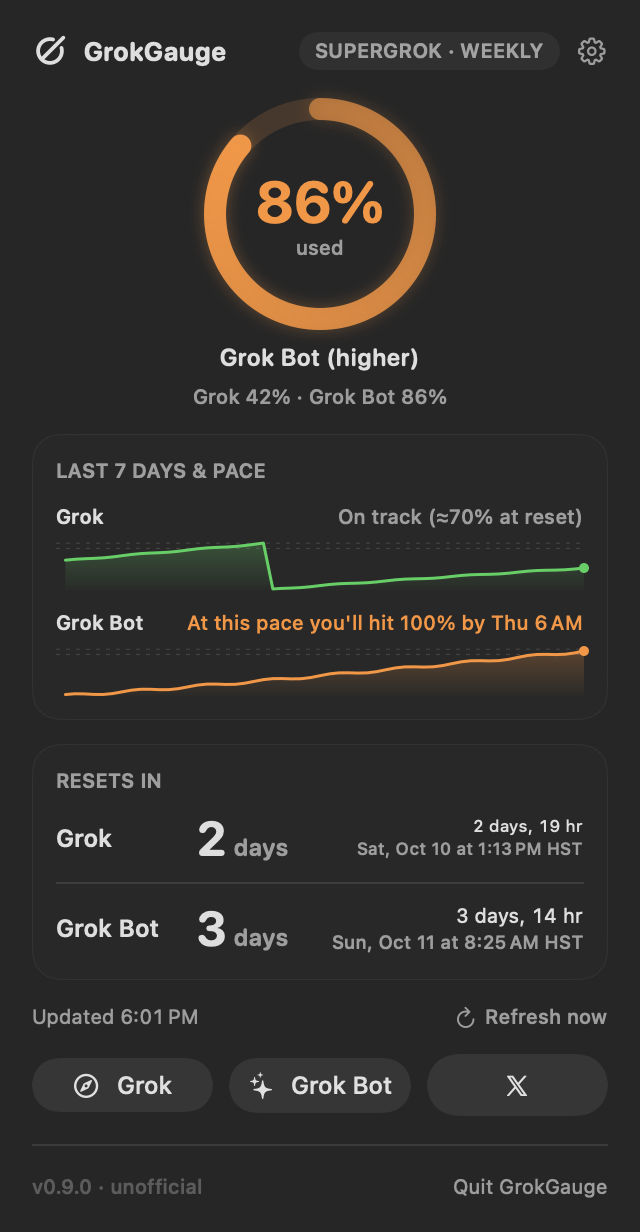
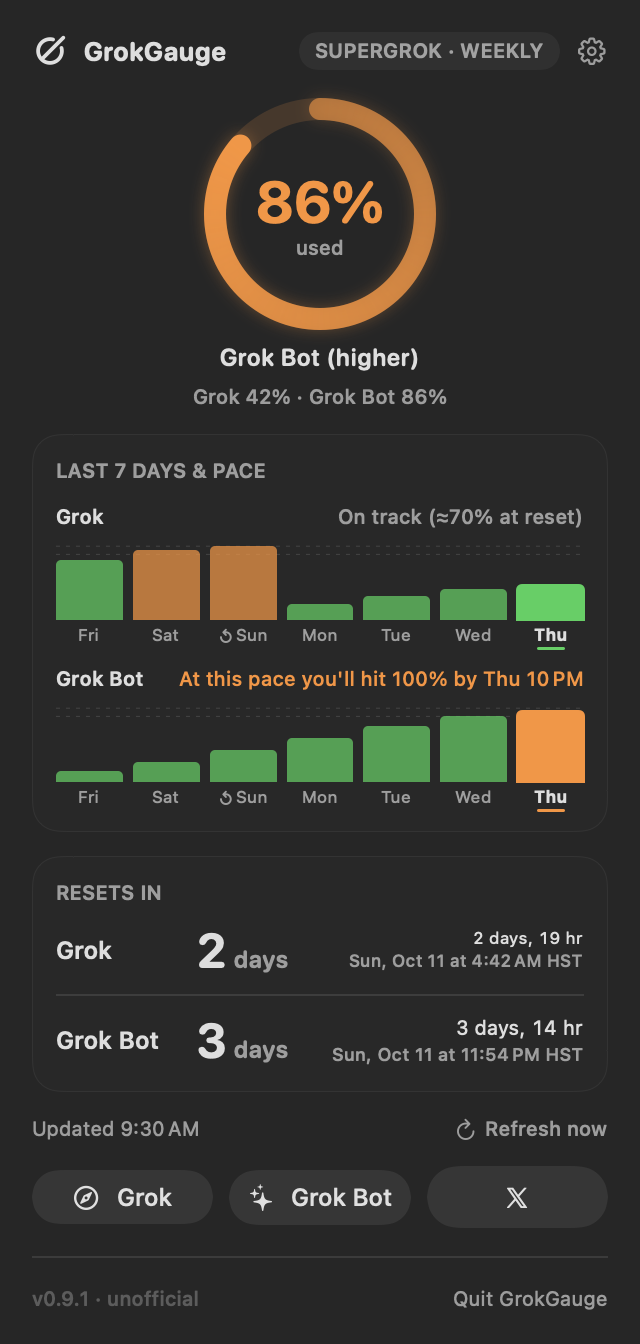
GrokGauge 0.9.1: changelog, README, previews, version bump
Cask template points at 0.9.1 with a placeholder checksum until the release.

diff --git a/Casks/grokgauge.rb b/Casks/grokgauge.rb
@@ -1,7 +1,7 @@
 # Mirror of github.com/stevencombs/homebrew-tap/blob/main/Casks/grokgauge.rb (keep in sync).
 cask "grokgauge" do
-  version "0.9.0"
-  # PLACEHOLDER: replace with the sha256 of GrokGauge-0.9.0.zip once the v0.9.0 release is published
+  version "0.9.1"
+  # PLACEHOLDER: replace with the sha256 of GrokGauge-0.9.1.zip once the v0.9.1 release is published
   # (the tap still serves 0.3.0 with its real checksum until then).
   sha256 "0000000000000000000000000000000000000000000000000000000000000000"
 

diff --git a/README.md b/README.md
@@ -34,7 +34,8 @@ Features:
   **higher** of the two numbers, **both** (`G 42% · B 86%`), just one source, or only the logo tinted
   by status. Optionally add the days to reset (`10% · 5d`) or hide the logo.
 - **Ring gauges** for Grok and Grok Bot: side by side, stacked, or one combined ring showing the higher.
-- **History & pace.** A 7-day sparkline for each source, plus a projection: "On track (≈40% at reset)"
+- **History & pace.** A 7-day graph for each source: one bar per day with the highest % reached that day
+  (or a line or area graph, your pick), plus a projection: "On track (≈40% at reset)"
   or "At this pace you'll hit 100% by Fri 3 PM".
 - **Reset times.** Days until reset, a live countdown, and the exact reset day and time in your
   time zone. When Grok and Grok Bot reset at different times you get one clearly labeled line for each.
@@ -66,6 +67,15 @@ Features:
   <img src="docs/popover-changed-shape-dark-demo.png" width="250" alt="The 'xAI changed something' state">
 </p>
 <p align="center"><sub>Stacked rings with the colorblind-friendly palette · one combined ring with sections hidden · what you see if xAI changes the usage reply.</sub></p>
+
+<p align="center">
+  <img src="docs/popover-graph-bars-dark-demo.png" width="250" alt="History as bars: one bar per day, today highlighted, a reset mark on the reset day">
+  &nbsp;
+  <img src="docs/popover-graph-line-dark-demo.png" width="250" alt="History as a line graph">
+  &nbsp;
+  <img src="docs/popover-graph-area-dark-demo.png" width="250" alt="History as an area graph">
+</p>
+<p align="center"><sub>Graph styles: Bars (default; ↺ marks the day the week reset) · Line · Area.</sub></p>
 
 ## Requirements
 
@@ -139,7 +149,9 @@ Everything applies immediately.
 
 - **Layout.** Check or uncheck each dropdown section (Grok ring, Grok Bot ring, history & pace,
   reset dates, Grok by product, Extra Usage Credits, the Updated/Refresh row, action buttons) and drag
-  rows to reorder them (the arrow buttons and VoiceOver actions work too). Pick the ring style, and
+  rows to reorder them (the arrow buttons and VoiceOver actions work too). Under **History graphs**,
+  choose whether the Grok and Grok Bot graphs appear (turning both off hides the section) and pick the
+  **Graph style**: Bars (one bar per day, the default), Line, or Area. Pick the ring style, and
   choose which action buttons appear and in what order. **Reset Layout to Default** undoes it all.
 - **Menu Bar.** Higher percent, both (`G · B`), Grok only, Grok Bot only, or the logo alone tinted
   green/orange/red. Optional days-to-reset suffix and a hide-the-logo switch, with a live preview.
@@ -153,7 +165,8 @@ Everything applies immediately.
   (5, 15, 30 or 60 minutes) and **Launch at login**.
 - **Sync.** See [Using it on several Macs](#using-it-on-several-macs). **Export…** and **Import…**
   save and load the same JSON file.
-- **Diagnostics.** For Grok and Grok Bot: status, last success, last error, and (for Grok) when the
+- **Diagnostics.** For Grok and Grok Bot: status, last success, last error (including the server's own
+  error message for HTTP errors other than 401/403, with anything token-, email- or id-like removed), and (for Grok) when the
   login expires, plus the app and macOS versions. **Copy Report** puts a plain-text summary on the
   clipboard for bug reports; it never includes tokens, emails, account ids, or file paths.
 - **About.** Version, links, and **Check for updates daily** (on by default). When a newer release is
@@ -212,7 +225,7 @@ already sync, such as a Google Drive, Insync, Dropbox or iCloud Drive folder.
 
 - **Settings sync** writes only `GrokGauge/settings.json` in the folder you choose, containing
   preferences only (no tokens, emails, ids, usage, or history). Nothing is synced until you pick a folder.
-- **History** for the sparklines stays on your Mac in
+- **History** for the graphs stays on your Mac in
   `~/Library/Application Support/GrokGauge/history.json`: timestamps and percents only, pruned after
   8 days, never synced or sent anywhere.
 - **Update check** (optional, daily) asks GitHub's public API for the latest
@@ -242,6 +255,9 @@ GrokGauge until it's updated.
   **"Inferred (none reported)"**.
 - If the reply is JSON but no longer has the expected shape (no `config`, no current period), GrokGauge
   shows **"xAI changed something"** and a dash instead of a misleading 0%, and keeps retrying.
+- Each refresh opens its own connection. A 400, 408, 421 or 5xx reply, or a dropped connection, is retried
+  once right away on a new connection (a stuck server instance can't keep GrokGauge on an error), and then
+  with backoff like network errors.
 - Network errors are retried with exponential backoff (30 s, 1 min, 2 min, … up to 15 min). After your
   Mac wakes or switches networks, GrokGauge waits a few seconds before refreshing and retries quietly
   for a short grace period, so you don't see "You're offline" flash on wake.
@@ -253,7 +269,7 @@ The Grok Bot app checks your weekly usage with its own server and caches the res
 dropdown, and on every Grok refresh. That means:
 
 - The Grok Bot number is **as fresh as Grok Bot's last check**. The ring shows "as of 4:28 PM" so
-  you know how old it is. Grok Bot updates the cache on its own schedule, and only while it's
+  you know how old it is (with the date, "as of Oct 7, 5:38 PM", when the reading is from an earlier day). Grok Bot updates the cache on its own schedule, and only while it's
   running. Opening Grok Bot's *Usage & Billing* screen is a quick way to get a fresh number.
 - If the cached reading has expired (Grok Bot keeps it for about a day) or its week has already
   reset, the ring goes gray and says **"Open Grok Bot to update."** If Grok Bot is signed out or

diff --git a/CHANGELOG.md b/CHANGELOG.md
@@ -3,6 +3,33 @@
 All notable changes to GrokGauge. Versions follow [Semantic Versioning](https://semver.org/);
 dates are when the version was built.
 
+## [0.9.1] - 2026-10-08
+
+### Fixed
+- **"Grok returned an error (400)" that wouldn't clear.** GrokGauge kept one HTTP/3 connection open between
+  refreshes; on 2026-10-08 the server instance behind one such connection answered every request with 400
+  (after about 5 seconds) for roughly 14 minutes, while new connections got normal replies. Each refresh now
+  uses its own short-lived connection, and a 400, 408, 421 or 5xx reply (or a dropped connection) is retried
+  once right away on a brand-new connection. A 400 is also treated as temporary: GrokGauge keeps the last good
+  reading and retries with backoff.
+- Grok Bot's ring said "as of 5:38 PM" the next morning without saying which day. Readings from an earlier
+  day now show the date ("as of Oct 7, 5:38 PM"); the tooltip has the full date and time.
+
+### Added
+- **Bar graph history:** "Last 7 days" shows one bar per day with the highest % reached that day, tinted with the
+  level colors, weekday labels, today's bar highlighted and a small ↺ mark on the day the weekly allowance reset.
+  VoiceOver reads each bar ("Thursday, October 8: peak 21 percent, weekly reset"). The pace line is unchanged.
+- **Graph style** in Settings › Layout: Bars (default), Line (the 0.9.0 sparkline) or Area, picked from tiles that
+  each show a small drawing of the style. Applies to both graphs.
+- **Choose which history graphs appear:** "Grok history" and "Grok Bot history" toggles in Settings › Layout.
+  Turning both off hides the "Last 7 days & pace" section (its own checkbox still works too).
+- Settings › Diagnostics shows the server's own error message for errors other than 401/403
+  (sanitized: no tokens, emails, ids or paths, at most 160 characters). `--print-usage` shows it too.
+
+### Changed
+- Settings saved by 0.9.0 are migrated automatically (new options start at their defaults) and the new options sync
+  between Macs like the others.
+
 ## [0.9.0] - 2026-10-07
 
 ### Added
